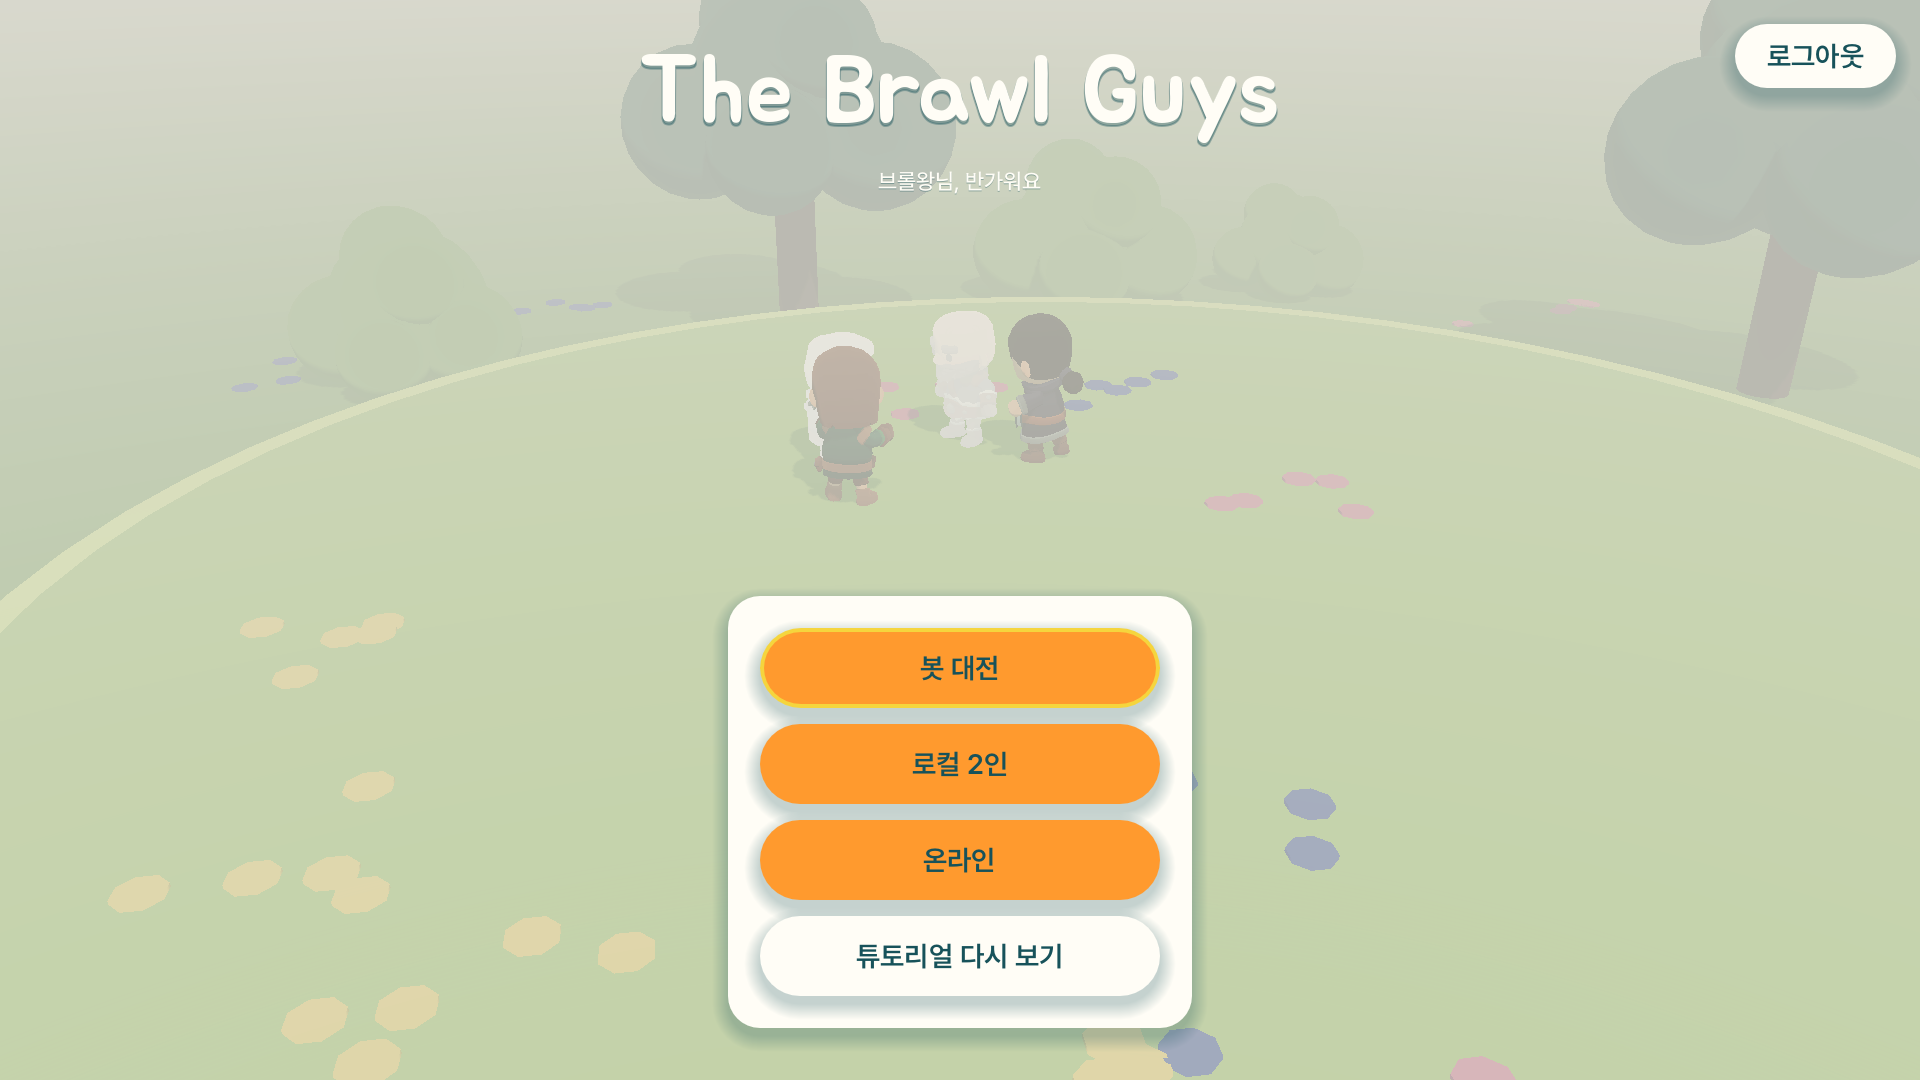
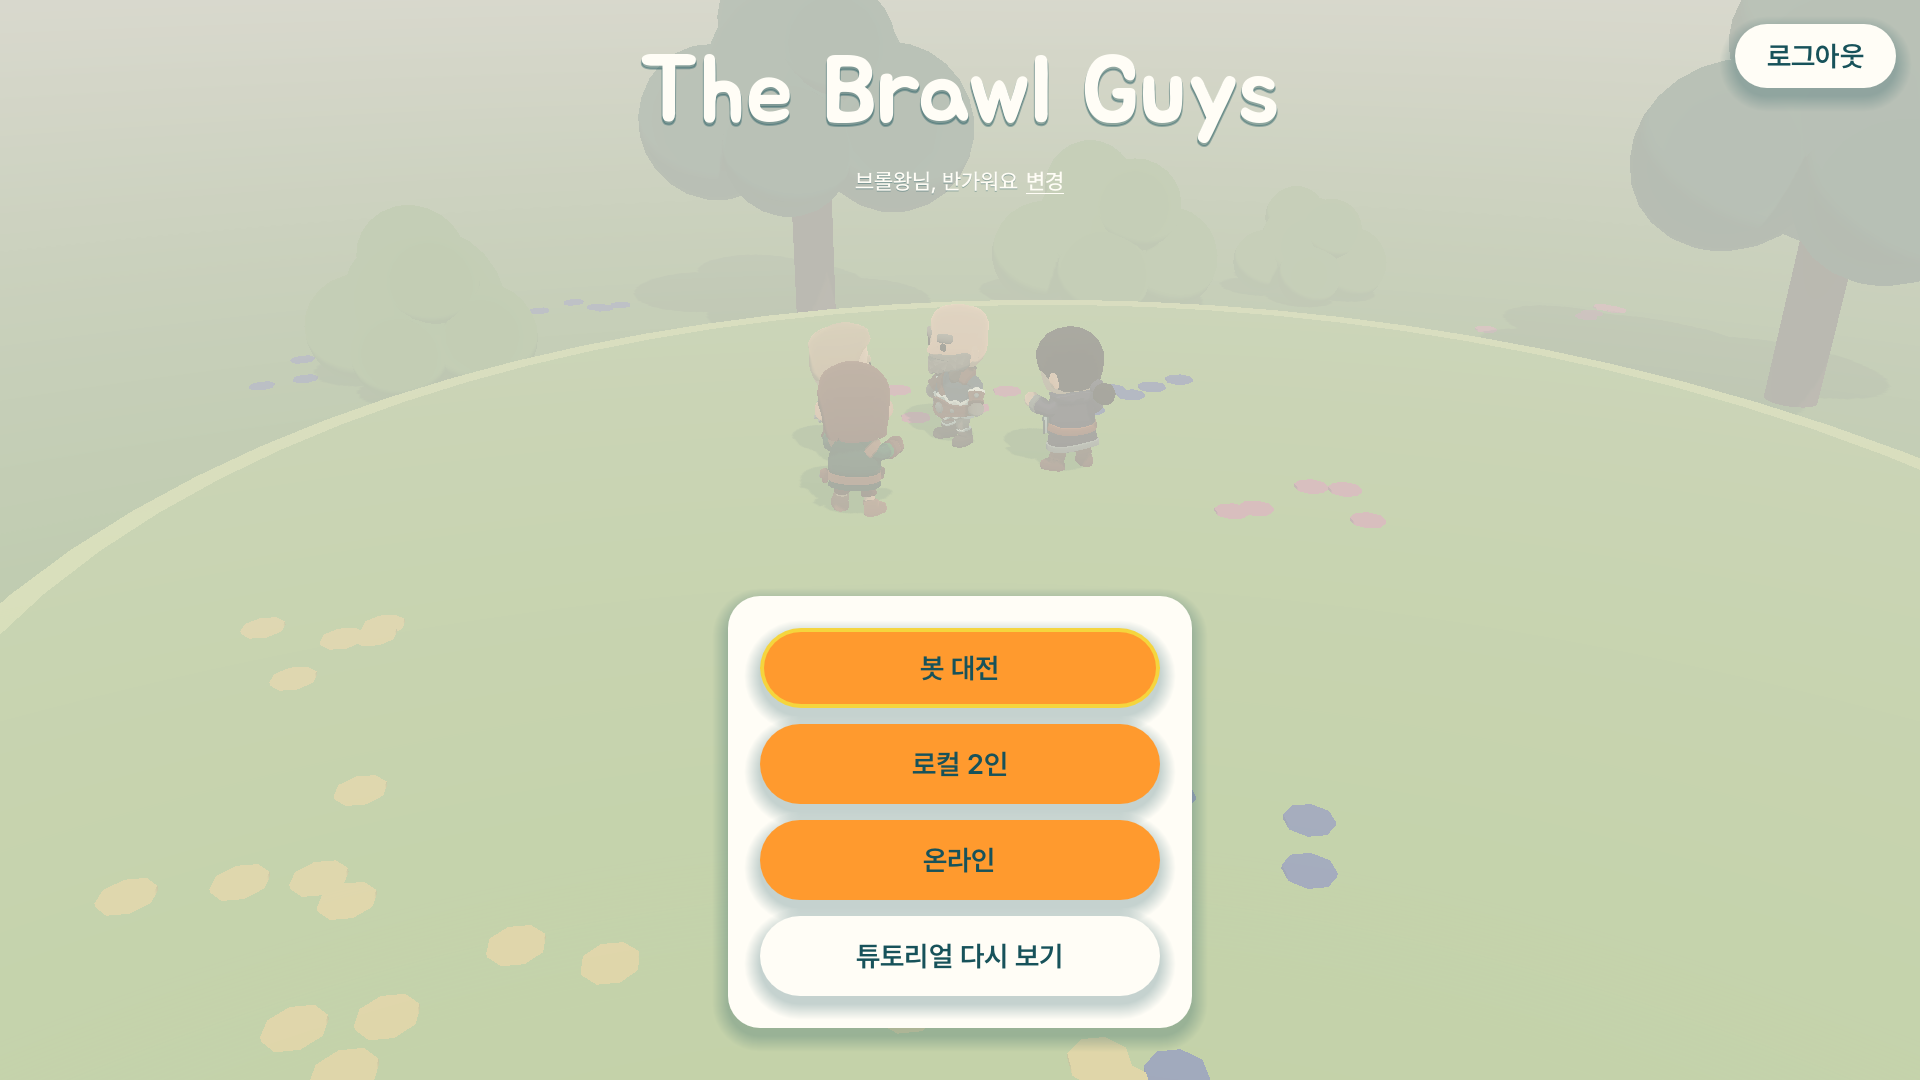
feat: change the nickname from the title
A '변경' link beside the title greeting ('닉네임 정하기' when there is
none) opens the nickname screen with the current name; 다음 saves it to
the device and account and returns to the title.

diff --git a/docs/design.md b/docs/design.md
@@ -315,7 +315,7 @@ v1 (Phase 1~5): 정보는 상단·조작은 하단, `DamageCounter`를 상단에
 
 **온라인 로비** (Phase 6, 근거 PRD-NET-03): 온라인 메뉴는 경기 방식과 같은 배치에 `Panel` 하나 — "방 만들기"(primary) · "친구에게 받은 방 코드" + `RoomCodeInput`(DS-CMP-11) · "입장"(secondary, 6자일 때만) · 상태 한 줄(진행 `ui_text_soft`, 오류 `danger`). 로그인 안 했으면 안내 + "로그인", WebRTC가 없는 빌드(플러그인 없는 데스크톱)는 "이 플랫폼은 아직 온라인 미지원 (웹에서 플레이)". 대기실: 제목 "대기실" 아래 "방 코드" + 코드(`display_l` Jua) + "복사"(secondary), 그 아래 왼쪽에 2×2 `PlayerSlot`(DS-CMP-10: 비어 있음 · 고르는 중 · 준비 완료 · 연결 끊김 = 연결 실패, 캐릭터 이름 뒤 " · 나" / " · 방장") + 각 칸 아래 `ConnectionBadge`(DS-CMP-13), 오른쪽 `Panel`에 높이 `s8` 버튼 열 — 캐릭터(누를 때마다 다음) · 준비/준비 취소 · (방장만) 경기 방식 · 경기장(기존 선택 화면을 그대로 띄움) · 봇 채우기/빼기 · 시작(primary, 사람 2명 이상 모두 준비·연결됐을 때만, 아니면 아래 `caption`으로 이유) · 나가기, 맨 아래 알림 한 줄. 키·패드는 버튼 사이 포커스 이동, Esc/패드 B 나가기, 클릭·탭
 
-**첫 로그인 온보딩** (2026-10-02, 근거 PRD-UI-02): 로그인하자마자 튜토리얼로 넘어가던 흐름을 대체. 세 화면 모두 `OnboardingLayout` — 경기장 선택과 같은 틀(제목 `display_l` 위, 가운데 `Panel`, 뒤로 좌하단·키 안내 우하단, 뒤로 없는 환영 화면도 같은 높이의 빈 칸을 둬 키 안내 위치가 화면마다 같다). 패널 안은 한 열(폭 = 로그인 카드 폭 − `s6`×2 = 496, 버튼·입력칸이 꽉 차 모든 줄의 좌우 끝이 맞음), 묶음 사이 `s5`, 묶음 안(버튼 + 그 아래 설명, 입력칸 + 도움말) `s3`, 패널 안쪽 여백 `s6`. 문구는 이 폭에 한두 줄로 떨어지게 쓴다(한 글자만 다음 줄로 넘어가지 않게). **환영** "환영해요!" — 본문(`body`) "치고, 던지고, 장외로 날려 보내는 / 난투 게임이에요." + 설명(`caption` `ui_text_soft`) "시작하기 전에 세 가지만 정해요." + "시작하기"(primary). **닉네임** "뭐라고 부를까요?" — `TextField`(가운데 정렬, 계정 이름·이 기기의 이전 닉네임으로 미리 채움) + 도움말 "2~12자 · 경기 화면에 보여요"(틀리면 `danger` 글자 + 입력칸 오류 링, 다시 치면 원래대로) + "다음". 규칙 `Nickname`(앞뒤 공백 제거·연속 공백 하나로·2~12자·제어 문자 불가), 저장은 기기 `[profile] nickname` + Supabase `profiles.display_name`(로그아웃하면 기기 쪽은 지워 다음 계정이 물려받지 않음). **캐릭터**는 기존 캐릭터 선택 화면 그대로. **시작 방식** "어떻게 시작할까요?" — "튜토리얼부터"(primary, 처음 포커스) + "조작을 하나씩 배워요 · 약 3분", "바로 봇전"(secondary) + "고른 캐릭터로 봇과 한 판", 맨 아래 "튜토리얼은 타이틀에서 다시 볼 수 있어요". 닉네임은 타이틀 로고 아래 "브롤왕님, 반가워요"(흰 `caption`, 로고와 `s2`)와 경기 HUD 내 카드 "브롤왕 · 바바리안"(혼자 하는 경기만 — 로컬 2인은 P1/P2 그대로, 길면 말줄임, 목숨·%는 밀리지 않음)에 보인다. 증거 `dev/active/onboarding/evidence/onboarding-*.png`(1920×1080, `-phone` = UI 배율 1.6)
+**첫 로그인 온보딩** (2026-10-02, 근거 PRD-UI-02): 로그인하자마자 튜토리얼로 넘어가던 흐름을 대체. 세 화면 모두 `OnboardingLayout` — 경기장 선택과 같은 틀(제목 `display_l` 위, 가운데 `Panel`, 뒤로 좌하단·키 안내 우하단, 뒤로 없는 환영 화면도 같은 높이의 빈 칸을 둬 키 안내 위치가 화면마다 같다). 패널 안은 한 열(폭 = 로그인 카드 폭 − `s6`×2 = 496, 버튼·입력칸이 꽉 차 모든 줄의 좌우 끝이 맞음), 묶음 사이 `s5`, 묶음 안(버튼 + 그 아래 설명, 입력칸 + 도움말) `s3`, 패널 안쪽 여백 `s6`. 문구는 이 폭에 한두 줄로 떨어지게 쓴다(한 글자만 다음 줄로 넘어가지 않게). **환영** "환영해요!" — 본문(`body`) "치고, 던지고, 장외로 날려 보내는 / 난투 게임이에요." + 설명(`caption` `ui_text_soft`) "시작하기 전에 세 가지만 정해요." + "시작하기"(primary). **닉네임** "뭐라고 부를까요?" — `TextField`(가운데 정렬, 계정 이름·이 기기의 이전 닉네임으로 미리 채움) + 도움말 "2~12자 · 경기 화면에 보여요"(틀리면 `danger` 글자 + 입력칸 오류 링, 다시 치면 원래대로) + "다음". 규칙 `Nickname`(앞뒤 공백 제거·연속 공백 하나로·2~12자·제어 문자 불가), 저장은 기기 `[profile] nickname` + Supabase `profiles.display_name`(로그아웃하면 기기 쪽은 지워 다음 계정이 물려받지 않음). **캐릭터**는 기존 캐릭터 선택 화면 그대로. **시작 방식** "어떻게 시작할까요?" — "튜토리얼부터"(primary, 처음 포커스) + "조작을 하나씩 배워요 · 약 3분", "바로 봇전"(secondary) + "고른 캐릭터로 봇과 한 판", 맨 아래 "튜토리얼은 타이틀에서 다시 볼 수 있어요". 닉네임은 타이틀 로고 아래 "브롤왕님, 반가워요"(흰 `caption`, 로고와 `s2`, 한 줄) + 옆 `s2`에 밑줄 링크 "변경"(닉네임이 없으면 링크 "닉네임 정하기"만) — 누르면 같은 닉네임 화면이 현재 이름으로 열리고 다음 = 저장 후 타이틀, 뒤로 = 변경 없음(`NicknameEdit`)와 경기 HUD 내 카드 "브롤왕 · 바바리안"(혼자 하는 경기만 — 로컬 2인은 P1/P2 그대로, 길면 말줄임, 목숨·%는 밀리지 않음)에 보인다. 증거 `dev/active/onboarding/evidence/onboarding-*.png`(1920×1080, `-phone` = UI 배율 1.6)
 
 **온보딩 튜토리얼** (Phase 5 T11, 근거 PRD-UI-02): 고전 경기장에서 Barbarian(필살기가 있는 캐릭터) 대 가만히 서 있는 연습 상대(가드 미션에서만 다가와 약공격). 미션 8개 — 이동 → 점프 → 약공격 → 강공격(모아치기) → 가드 → 잡기·던지기 → 아이템(가운데 떨어지는 방망이 줍기·쓰기) → 필살기(게이지를 채워 줌). 미션마다 위쪽 `TutorialCard`(DS-CMP-19)가 한 줄 안내를, 아래 `KeyHintBar`가 지금 누를 키캡을 target 링으로 보여 준다. 성공하면 카드가 "좋아요!"로 바뀌며 통 튀고(`motion_squish`) `ui_confirm` 소리, 1.2초 뒤 다음 미션. 스톡이 줄지 않고 아이템 상자가 떨어지지 않는다. 안내 문구는 손에 든 장치를 따른다: 터치 컨트롤이 보이면 화면 버튼·스틱 이름(키 바는 숨음), 패드를 쓰면 패드 버튼(Xbox A/X/Y/B/RB, PS × □ △ ○ R1), 아니면 P1 키(InputMap에서 읽음). 건너뛰기 버튼·Esc·패드 Start → 확인창(그동안 일시정지) → 타이틀. 완료 카드 "튜토리얼 완료!" + "타이틀로". 증거 `phase-5/evidence/tutorial-*.png`(1920×1080) · `tutorial-*-phone.png`(1624×750, UI 배율 1.6, 터치)
 
